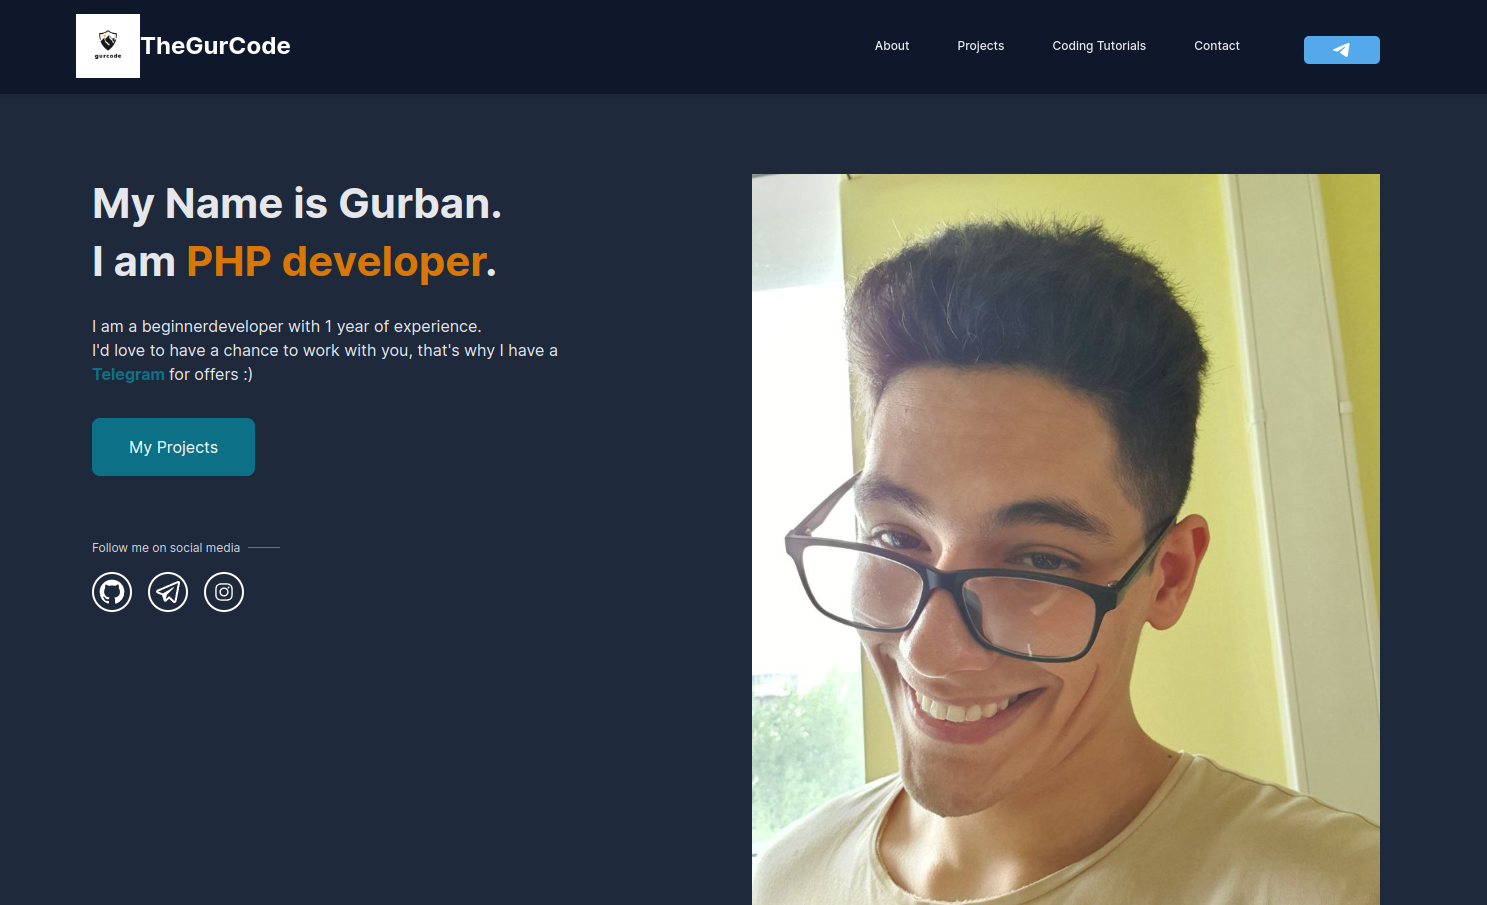
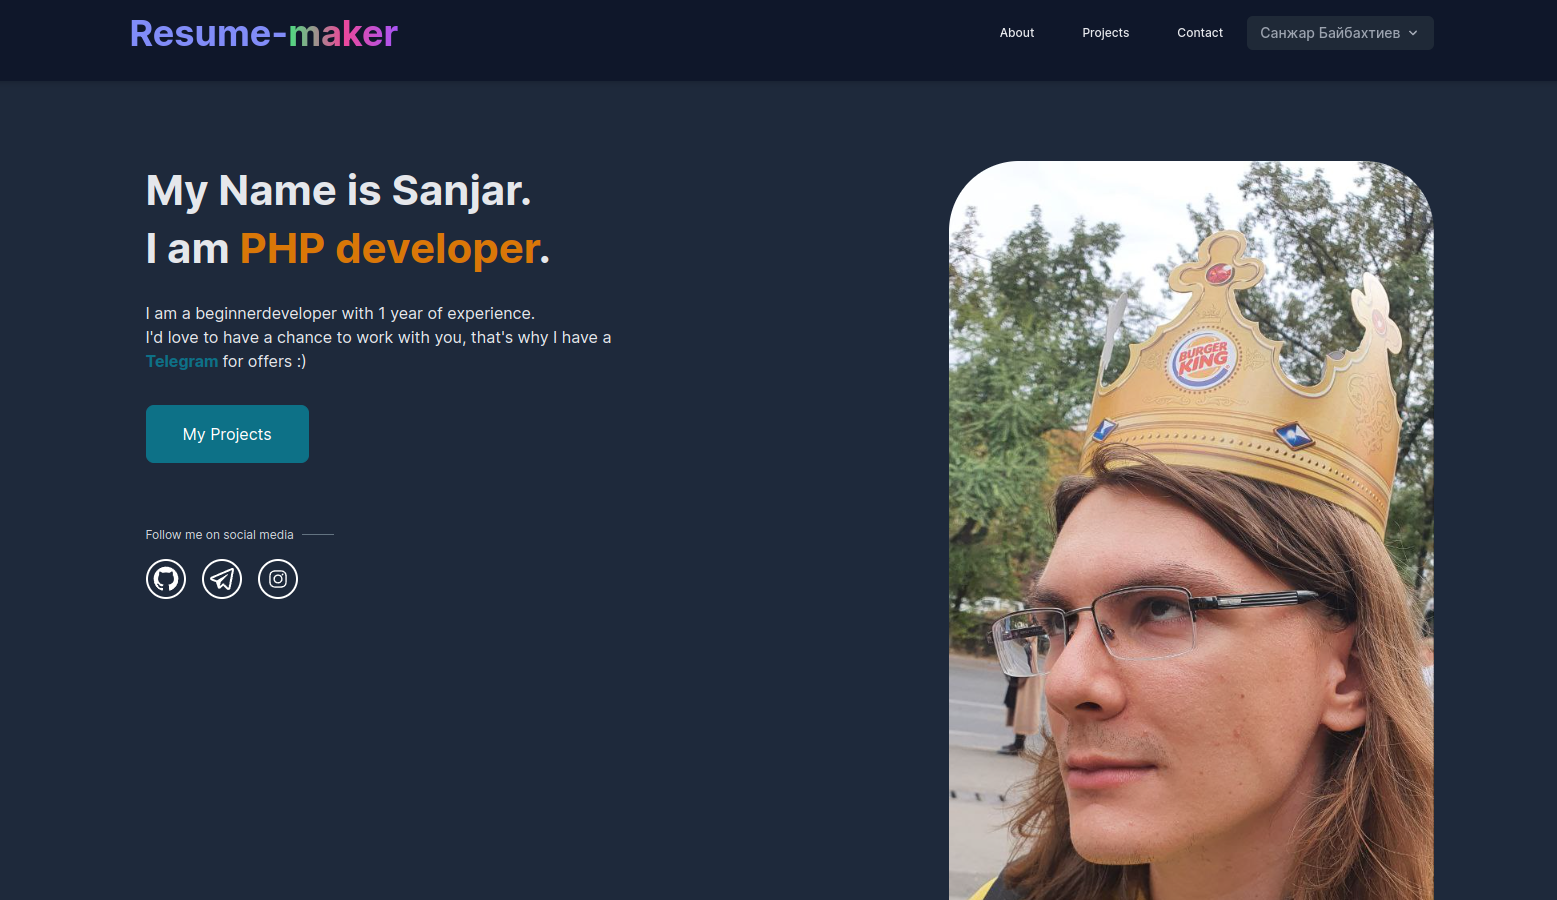
Changed static info in resume for Kolya and Sanjar

diff --git a/resources/views/components/home/about.blade.php b/resources/views/components/home/about.blade.php
@@ -42,19 +42,19 @@
             <h2 class="font-bold text-3xl sm:text-4xl dark:text-gray-200 mb-8">
               About Me
             </h2>
-            <p class="text-base dark:text-gray-400 mb-8">
-              I have been working as a php developer only one year. <br />
-              During this year, I managed to study a lot of technologies, work on one interesting project,
+              <p class="text-base dark:text-gray-400 mb-8">
+              I have been working as a php developer only one year.
+              During this year, I managed to study a lot of technologies, work on one interesting project, 
               but very often I feel that I am not even a junior developer. It's like: "The more you know the less you know" <br />
             </p>
             <p class="text-base dark:text-gray-400 mb-8">
-              In 2020 i have started to learn programming with <span class="text-amber-500 font-bold">JAVA</span>. I got the main programming base with this language.  
+              In 2020 i have started to learn programming with <span class="text-amber-500 font-bold">Python</span>. I got the main programming base with this language.  
               But now, due to unexpected circumstances, I'm working with <span class="text-amber-500 font-bold">PHP</span> and I don't regret at all. <br />
             </p>
             <x-button-link href="https://www.linkedin.com/in/jabruk/" variant="blue" target="_blank" class="mr-3 w-full mb-3 text-center lg:w-auto">
               View my LinkedIn
             </x-button-link>
-            <x-button-link href="https://plum-ruthe-76.tiiny.site/" variant="red" target="_blank" class="mr-3 w-full mb-3 text-center lg:w-auto">
+            <x-button-link href="https://hh.kz/resume/dc2a7527ff0bed8a770039ed1f47336d6f594a" variant="red" target="_blank" class="mr-3 w-full mb-3 text-center lg:w-auto">
                 View my old Resume
               </x-button-link>
           </div>

diff --git a/resources/views/components/home/hero.blade.php b/resources/views/components/home/hero.blade.php
@@ -7,7 +7,7 @@
             <h1
               class="text-dark dark:text-gray-200 font-bold text-4xl sm:text-[42px] lg:text-[40px] xl:text-[42px] leading-snug mb-6"
             >
-              My Name is Gurban. <br/>
+              My Name is Sanjar. <br/>
               I am <span class="rounded-md text-amber-600">PHP developer</span>.
             </h1>
             <p class="text-base mb-8 max-w-[520px]">
@@ -15,7 +15,7 @@
               I'd love to have a chance to work with you, that's why I have a
               <a
                 class="text-primary font-bold no-underline hover:underline underline-offset-2 decoration-2 decoration-primary"
-                href="https://t.me/gurponika" target="_blank">Telegram </a> for offers :) <br>
+                href="https://t.me/sanjomon" target="_blank">Telegram </a> for offers :) <br>
             </p>
             <ul class="flex flex-wrap items-center">
               <li>

diff --git a/resources/views/components/social-icons.blade.php b/resources/views/components/social-icons.blade.php
@@ -2,7 +2,7 @@
 
 
     <a
-      href="https://github.com/jabruk"
+      href="https://github.com/sunjarred"
       target="_blank"
       class="
          w-10
@@ -32,7 +32,7 @@
     </svg>
     </a>
     <a
-      href="https://t.me/gurponika"
+      href="https://t.me/sanjomon"
       target="_blank"
       class="
          w-10
@@ -64,7 +64,7 @@
     </svg>
     </a>
     <a
-      href="https://www.instagram.com/gurbonchik/"
+      href="https://www.linkedin.com/in/sultan-aliyev-449188228"
       target="_blank"
       class="
          w-10

diff --git a/app/View/Components/Home/Portfolio.php b/app/View/Components/Home/Portfolio.php
@@ -23,7 +23,7 @@ class Portfolio extends Component
                 'category' => ['Laravel', 'Tailwind.css'],
                 'title' => 'Full Stack app with Laravel, Tailwindcss',
                 'image' => url('/img/resume.png'),
-                'github' => 'https://github.com/jabruk/resume'
+                'github' => 'https://github.com/sunjarred/tutorial'
             ],
             
         ];

diff --git a/resources/views/components/home/contact.blade.php b/resources/views/components/home/contact.blade.php
@@ -44,7 +44,7 @@
                 <h4 class="font-bold text-dark dark:text-gray-200 text-xl mb-1">
                   Email Address
                 </h4>
-                <p class="text-base text-body-color dark:text-gray-300">gurban780@gmail.com</p>
+                <p class="text-base text-body-color dark:text-gray-300">laferrar@mail.ru</p>
               </div>
             </div>
           </div>
